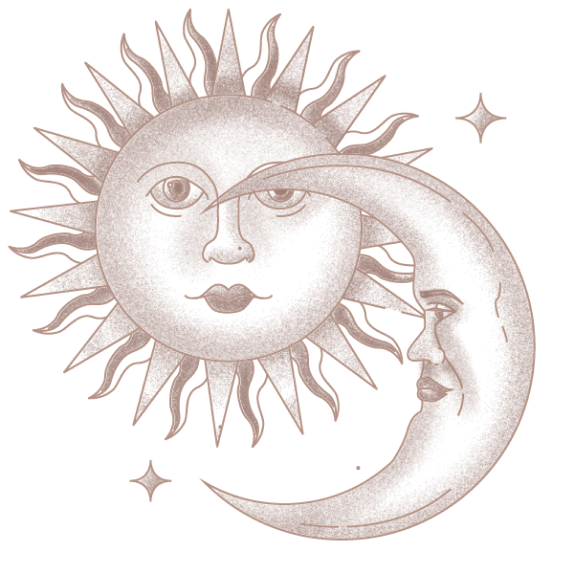
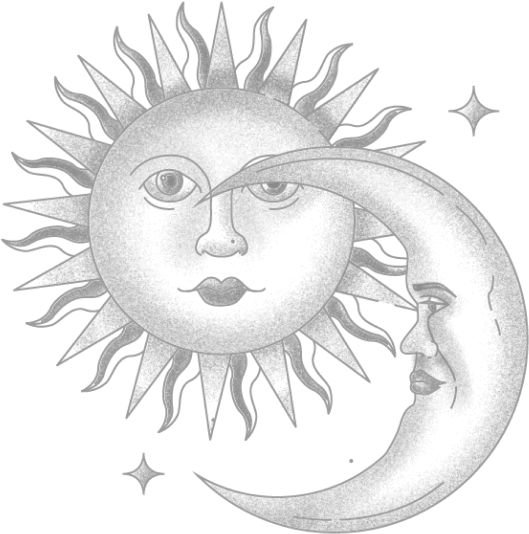
灰色图片更换

diff --git a/pages/zodiac/index.vue b/pages/zodiac/index.vue
@@ -101,10 +101,9 @@ export default {
     width: 1400px;
     &_top {
       width: 100%;
-      background: url('../../assets/img/zodiac/zodiac_top.png') no-repeat right;
+      background: url('~/assets/img/zodiac/zodiac_top.png') no-repeat right;
       background-position-y: 48px;
       padding-bottom: 120px;
-      mix-blend-mode: luminosity;
       position: relative;
       .top_text {
         width: 810px;
